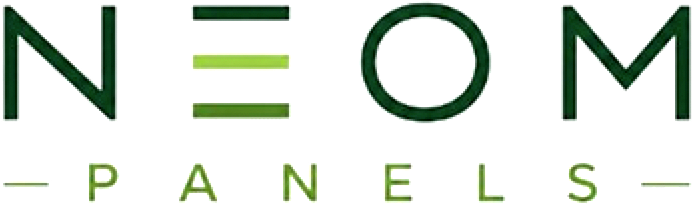
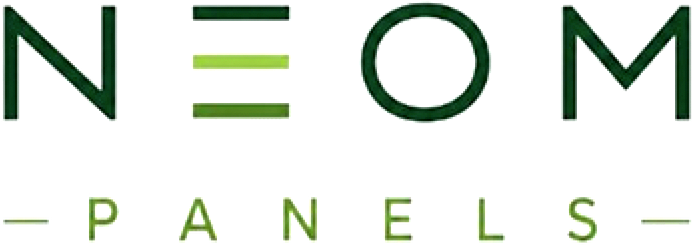
Align N emblem with NEOM PANELS baseline and add 4-layer 3D architectural panel wave animation

diff --git a/src/app/globals.css b/src/app/globals.css
@@ -371,74 +371,165 @@ p:last-child {
   text-decoration: none;
   padding-block: 0.25rem;
   flex-shrink: 0;
-  perspective: 680px;
+  perspective: 720px;
 }
 
 .brand-logo-3d-stage {
   display: inline-flex;
   align-items: center;
-  gap: 0.65rem;
+  gap: 0.625rem;
   transform-style: preserve-3d;
 }
 
 @media (min-width: 1024px) {
   .brand-logo-3d-stage {
-    gap: 0.8rem;
+    gap: 0.75rem;
   }
 }
 
-@keyframes neomEmblem3DFloat {
+@keyframes neomEmblemTilt3D {
   0%,
   100% {
-    transform: perspective(640px) rotateY(-7deg) rotateX(3deg) translateY(0px) translateZ(0px);
-    filter:
-      drop-shadow(-1px 2px 0px rgba(7, 59, 42, 0.28))
-      drop-shadow(-3px 5px 8px rgba(7, 59, 42, 0.18));
+    transform: perspective(680px) rotateY(-8deg) rotateX(3deg);
   }
   50% {
-    transform: perspective(640px) rotateY(8deg) rotateX(-3deg) translateY(-1.5px) translateZ(4px);
-    filter:
-      drop-shadow(2px 2px 0px rgba(7, 59, 42, 0.28))
-      drop-shadow(3px 6px 10px rgba(139, 105, 65, 0.22));
+    transform: perspective(680px) rotateY(9deg) rotateX(-3deg);
   }
 }
 
-@keyframes neomSheenSweep {
+@keyframes neomPanelWave1 {
   0%,
-  72%,
   100% {
-    transform: translateX(-140%) skewX(-22deg);
+    transform: translate3d(0, 0px, 2px);
+    filter: drop-shadow(-1px 2px 3px rgba(7, 59, 42, 0.26));
+  }
+  50% {
+    transform: translate3d(0, -1.75px, 9px);
+    filter: drop-shadow(-2px 4px 6px rgba(7, 59, 42, 0.34));
+  }
+}
+
+@keyframes neomPanelWave2 {
+  0%,
+  100% {
+    transform: translate3d(0, 0.5px, 6px);
+    filter: drop-shadow(0px 2px 3px rgba(47, 107, 60, 0.24));
+  }
+  50% {
+    transform: translate3d(0, -2px, 14px);
+    filter: drop-shadow(1px 5px 7px rgba(47, 107, 60, 0.34));
+  }
+}
+
+@keyframes neomPanelWave3 {
+  0%,
+  100% {
+    transform: translate3d(0, 0px, 4px);
+    filter: drop-shadow(0px 2px 3px rgba(7, 59, 42, 0.25));
+  }
+  50% {
+    transform: translate3d(0, 1.5px, 11px);
+    filter: drop-shadow(1px 4px 6px rgba(7, 59, 42, 0.32));
+  }
+}
+
+@keyframes neomPanelWave4 {
+  0%,
+  100% {
+    transform: translate3d(0, 0px, 3px);
+    filter: drop-shadow(1px 2px 3px rgba(139, 105, 65, 0.26));
+  }
+  50% {
+    transform: translate3d(0, -1.75px, 10px);
+    filter: drop-shadow(2px 5px 7px rgba(139, 105, 65, 0.36));
+  }
+}
+
+@keyframes neomWordmarkGlowSweep {
+  0%,
+  68%,
+  100% {
+    transform: translateX(-130%) skewX(-24deg);
     opacity: 0;
   }
-  80% {
+  78% {
     opacity: 0.55;
   }
   92% {
-    transform: translateX(160%) skewX(-22deg);
+    transform: translateX(150%) skewX(-24deg);
     opacity: 0;
   }
 }
 
 .brand-logo-3d-emblem {
   position: relative;
-  display: inline-flex;
-  align-items: center;
-  justify-content: center;
+  display: inline-block;
+  height: 2.55rem; /* 40.8px mobile */
+  aspect-ratio: 246 / 308;
   transform-style: preserve-3d;
-  will-change: transform, filter;
-  animation: neomEmblem3DFloat 5.6s ease-in-out infinite;
-  transition: transform 320ms cubic-bezier(0.22, 1, 0.36, 1), filter 320ms ease;
-  overflow: hidden;
-  border-radius: 2px;
+  will-change: transform;
+  animation: neomEmblemTilt3D 5.2s ease-in-out infinite;
+  transition: transform 340ms cubic-bezier(0.22, 1, 0.36, 1);
+  flex-shrink: 0;
   @media (prefers-reduced-motion: reduce) {
     animation: none;
-    filter:
-      drop-shadow(0 2px 0px rgba(7, 59, 42, 0.24))
-      drop-shadow(0 4px 8px rgba(7, 59, 42, 0.16));
   }
 }
 
-.brand-logo-3d-emblem::after {
+@media (min-width: 1024px) {
+  .brand-logo-3d-emblem {
+    height: 2.9rem; /* 46.4px desktop */
+  }
+}
+
+.brand-logo-n-layer {
+  position: absolute;
+  inset: 0;
+  width: 100%;
+  height: 100%;
+  object-fit: contain;
+  display: block;
+  will-change: transform, filter;
+  transition: transform 340ms cubic-bezier(0.22, 1, 0.36, 1), filter 340ms ease;
+}
+
+.brand-logo-n-layer--1 {
+  animation: neomPanelWave1 3.8s ease-in-out 0s infinite;
+}
+
+.brand-logo-n-layer--2 {
+  animation: neomPanelWave2 3.8s ease-in-out 0.45s infinite;
+}
+
+.brand-logo-n-layer--3 {
+  animation: neomPanelWave3 3.8s ease-in-out 0.9s infinite;
+}
+
+.brand-logo-n-layer--4 {
+  animation: neomPanelWave4 3.8s ease-in-out 1.35s infinite;
+}
+
+@media (prefers-reduced-motion: reduce) {
+  .brand-logo-n-layer--1,
+  .brand-logo-n-layer--2,
+  .brand-logo-n-layer--3,
+  .brand-logo-n-layer--4 {
+    animation: none;
+    filter: drop-shadow(0 2px 4px rgba(7, 59, 42, 0.2));
+  }
+}
+
+.brand-logo-wordmark-wrap {
+  position: relative;
+  display: inline-flex;
+  align-items: center;
+  overflow: hidden;
+  transform: translateY(1px); /* Optical baseline lock with the N emblem */
+  transition: transform 340ms cubic-bezier(0.22, 1, 0.36, 1), filter 340ms ease;
+  filter: drop-shadow(0 1px 1.5px rgba(7, 59, 42, 0.08));
+}
+
+.brand-logo-wordmark-wrap::after {
   content: "";
   position: absolute;
   inset: 0;
@@ -449,34 +540,14 @@ p:last-child {
     rgba(255, 255, 255, 0) 100%
   );
   pointer-events: none;
-  animation: neomSheenSweep 6.5s ease-in-out infinite;
+  animation: neomWordmarkGlowSweep 6.4s ease-in-out infinite;
   @media (prefers-reduced-motion: reduce) {
     display: none;
   }
 }
 
-.brand-logo-icon-img {
-  height: 2.75rem; /* 44px mobile */
-  width: auto;
-  object-fit: contain;
-  display: block;
-}
-
-@media (min-width: 1024px) {
-  .brand-logo-icon-img {
-    height: 3.15rem; /* ~50.4px desktop */
-  }
-}
-
-.brand-logo-wordmark-wrap {
-  display: inline-flex;
-  align-items: center;
-  transition: transform 320ms cubic-bezier(0.22, 1, 0.36, 1), filter 320ms ease;
-  filter: drop-shadow(0 1px 2px rgba(7, 59, 42, 0.08));
-}
-
 .brand-logo-wordmark-img {
-  height: 2.05rem; /* 32.8px mobile — tagline removed so NEOM PANELS is much larger & clearer */
+  height: 2.26rem; /* 88.6% of N emblem mobile height — locked top & bottom shoulders */
   width: auto;
   object-fit: contain;
   display: block;
@@ -484,22 +555,43 @@ p:last-child {
 
 @media (min-width: 1024px) {
   .brand-logo-wordmark-img {
-    height: 2.38rem; /* 38px desktop — bold, high-contrast NEOM PANELS */
+    height: 2.58rem; /* 89% of N emblem desktop height — locked top & bottom shoulders */
   }
 }
 
 .brand-logo-link:hover .brand-logo-3d-emblem,
 .brand-logo-link:focus-visible .brand-logo-3d-emblem {
   animation-play-state: paused;
-  transform: perspective(640px) rotateY(-12deg) rotateX(5deg) scale(1.06) translateZ(6px);
-  filter:
-    drop-shadow(2px 3px 0px rgba(7, 59, 42, 0.34))
-    drop-shadow(4px 8px 14px rgba(7, 59, 42, 0.24));
+  transform: perspective(680px) rotateY(-14deg) rotateX(6deg) scale(1.05);
+}
+
+.brand-logo-link:hover .brand-logo-n-layer--1,
+.brand-logo-link:focus-visible .brand-logo-n-layer--1 {
+  animation-play-state: paused;
+  transform: translate3d(-1px, -1px, 6px);
+}
+
+.brand-logo-link:hover .brand-logo-n-layer--2,
+.brand-logo-link:focus-visible .brand-logo-n-layer--2 {
+  animation-play-state: paused;
+  transform: translate3d(0px, -2.5px, 16px);
+}
+
+.brand-logo-link:hover .brand-logo-n-layer--3,
+.brand-logo-link:focus-visible .brand-logo-n-layer--3 {
+  animation-play-state: paused;
+  transform: translate3d(0px, 1.5px, 12px);
+}
+
+.brand-logo-link:hover .brand-logo-n-layer--4,
+.brand-logo-link:focus-visible .brand-logo-n-layer--4 {
+  animation-play-state: paused;
+  transform: translate3d(1.5px, -1.5px, 10px);
 }
 
 .brand-logo-link:hover .brand-logo-wordmark-wrap,
 .brand-logo-link:focus-visible .brand-logo-wordmark-wrap {
-  transform: translateX(2px);
+  transform: translate(2px, 1px);
   filter: drop-shadow(0 2px 5px rgba(7, 59, 42, 0.14));
 }
 

diff --git a/src/components/Navbar.jsx b/src/components/Navbar.jsx
@@ -108,9 +108,30 @@ export default function Navbar() {
             <span className="brand-logo-3d-stage" aria-hidden="true">
               <span className="brand-logo-3d-emblem">
                 <img
-                  src="/assets/neom-icon-3d.png"
+                  src="/assets/neom-n-layer-1.png"
                   alt=""
-                  className="brand-logo-icon-img"
+                  className="brand-logo-n-layer brand-logo-n-layer--1"
+                  width="246"
+                  height="308"
+                />
+                <img
+                  src="/assets/neom-n-layer-2.png"
+                  alt=""
+                  className="brand-logo-n-layer brand-logo-n-layer--2"
+                  width="246"
+                  height="308"
+                />
+                <img
+                  src="/assets/neom-n-layer-3.png"
+                  alt=""
+                  className="brand-logo-n-layer brand-logo-n-layer--3"
+                  width="246"
+                  height="308"
+                />
+                <img
+                  src="/assets/neom-n-layer-4.png"
+                  alt=""
+                  className="brand-logo-n-layer brand-logo-n-layer--4"
                   width="246"
                   height="308"
                 />
@@ -121,7 +142,7 @@ export default function Navbar() {
                   alt="NEOM Panels"
                   className="brand-logo-wordmark-img"
                   width="692"
-                  height="206"
+                  height="246"
                 />
               </span>
             </span>
